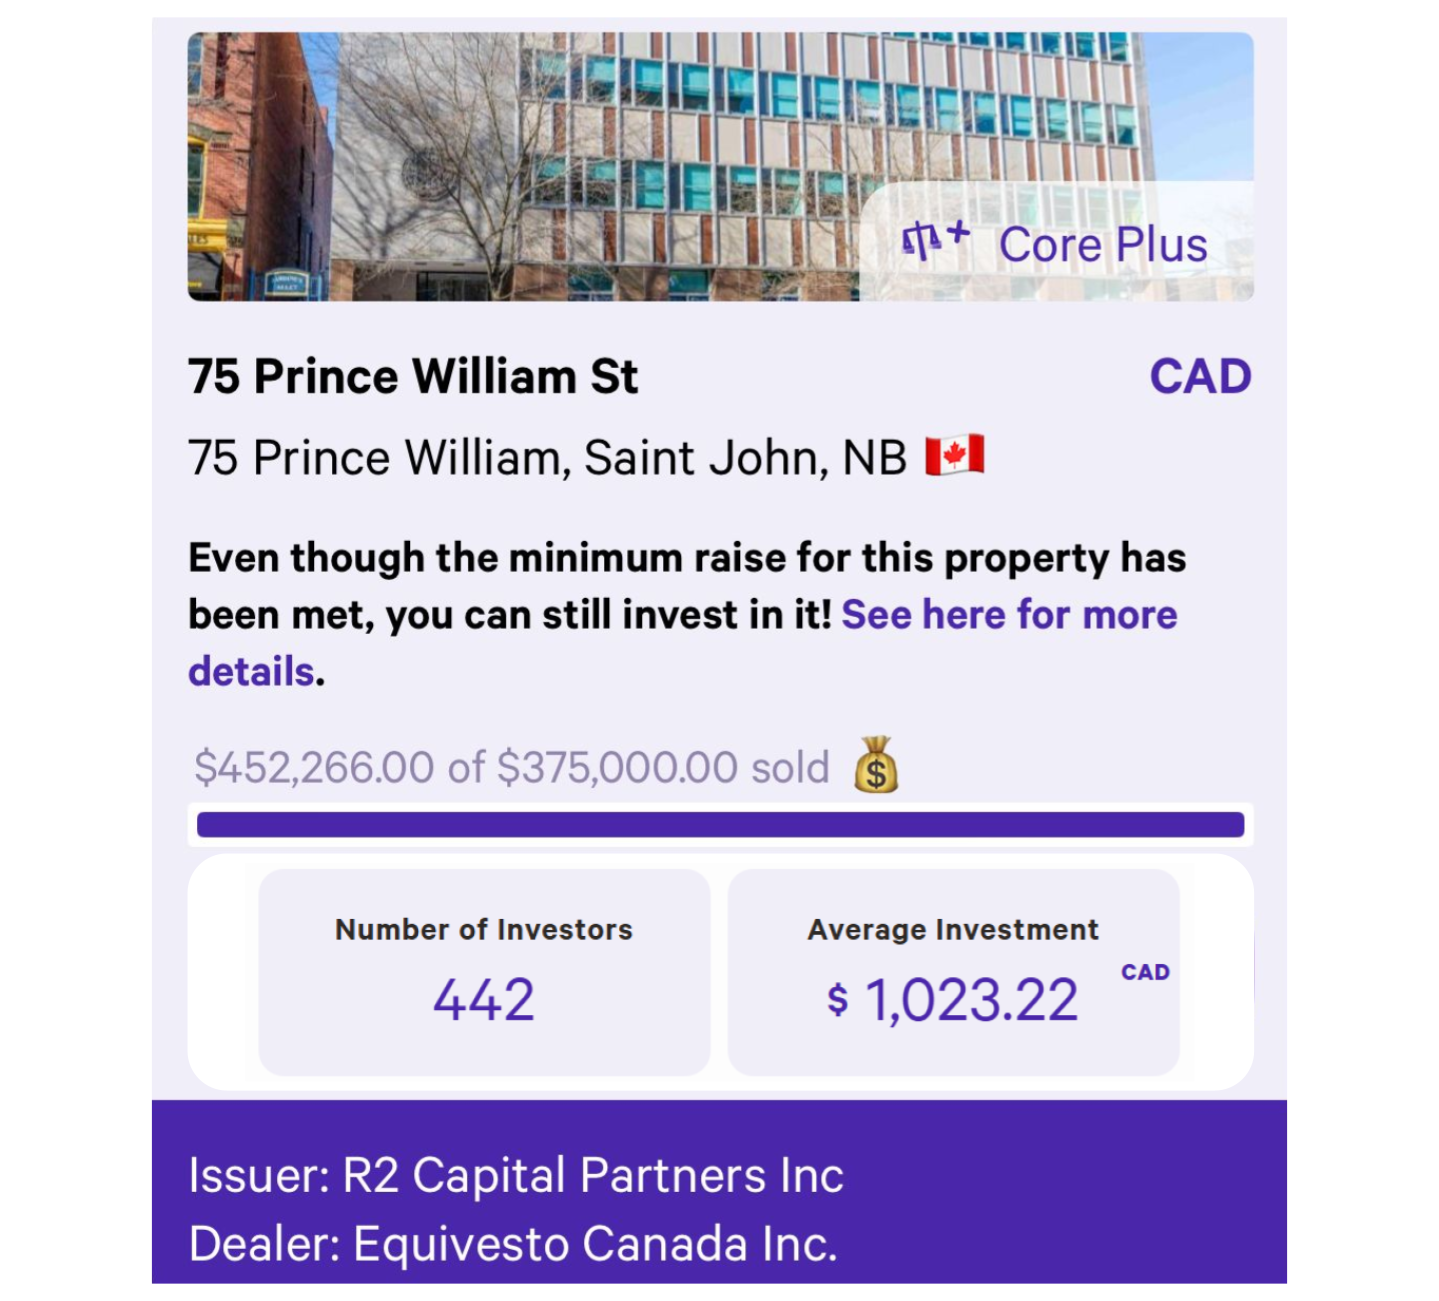
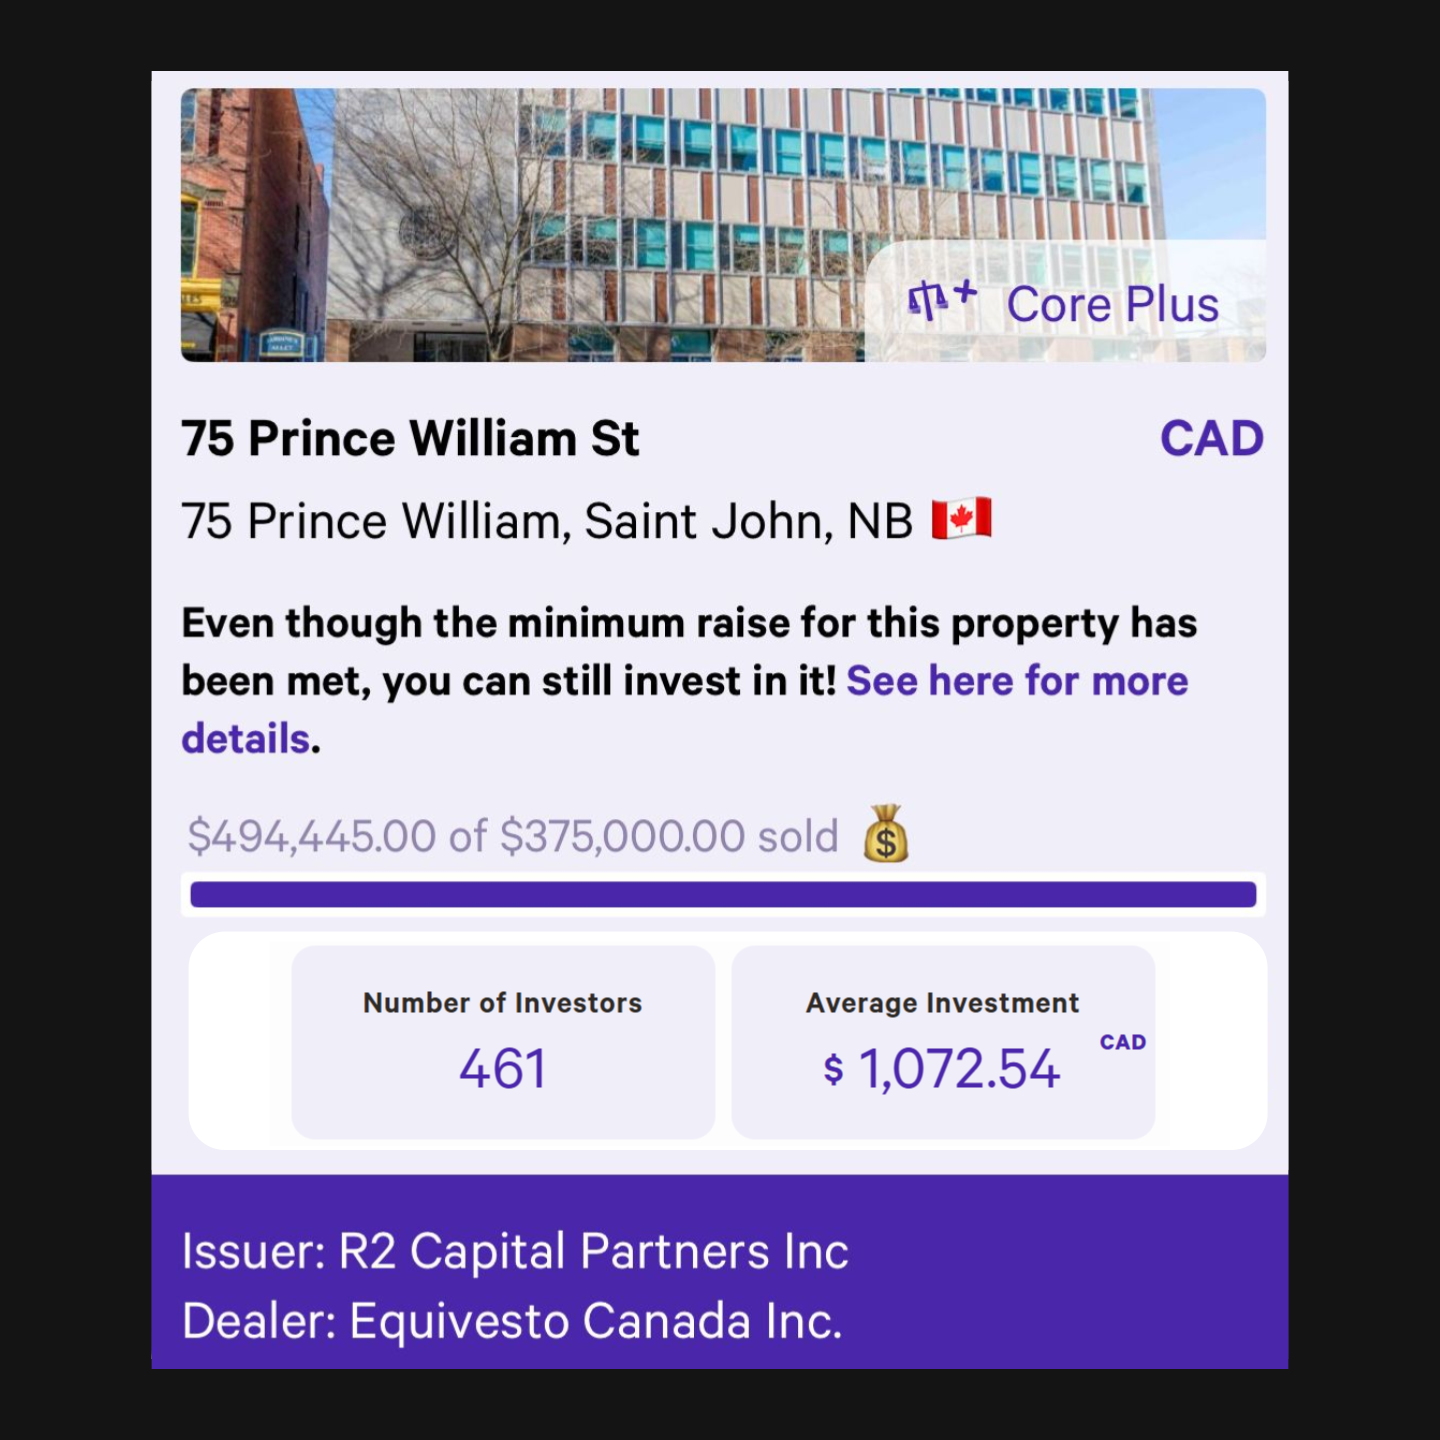
continuing transfer posts

diff --git a/_posts/2024-11-27-fractional.md b/_posts/2024-11-27-fractional.md
@@ -70,7 +70,7 @@ When real estate ownership becomes as liquid and seamless as trading stocks, mar
 
 Our inaugural crowdfunding offering on [Addy](https://app.addyinvest.com/R2Capital/buy/3rn1h71) demonstrated the power and demand for fractional real estate ownership. The investment opportunity featured a fully stabilized, 35,000-square-foot office building in Saint John, New Brunswick. This property, leased to a robust tenant mix—including government agencies, professionals, a public company, and a data center—was the ideal blend of stability and profitability.
 
-The offering aims for a double-digit annualized dividend and an targeted 16% IRR (Internal Rate of Return) to investors. Within just two months, we surpassed our original target raise of $375,000, securing $452,000 from 442 investors. On average, each investor contributed $1,023, demonstrating both the broad appeal and accessibility of this model. Demand was so strong that we not only exceeded our goal but also faced overwhelming requests for additional opportunities.
+The offering aims for a double-digit annualized dividend and an targeted 16% IRR (Internal Rate of Return) to investors. Within just two months, we surpassed our original target raise of $375,000 by 30%, securing $494,445 from 461 investors. On average, each investor contributed $1,072.54, demonstrating both the broad appeal and accessibility of this model. Demand was so strong that we not only exceeded our goal but also faced overwhelming requests for additional opportunities.
 
 This incredible response underscores the untapped potential of fractional ownership. Everyday investors are eager to participate in high-quality real estate opportunities that deliver strong returns without the traditional barriers of large capital requirements or operational complexity. Our first success is a testament to the appetite for accessible, high-yield real estate investments—and it's just the beginning.
 

diff --git a/_pages/about.md b/_pages/about.md
@@ -181,3 +181,7 @@ Together, a contrarian opportunist actively seeks undervalued opportunities or u
 This approach encourages questioning traditional norms, identifying hidden opportunities, and leveraging unorthodox strategies to achieve comprehensive personal and professional success. It's about not following the herd and instead creating a unique path toward growth and impact.
 
 ![Alt text](/assets/images/sg.png)
+
+
+
+
